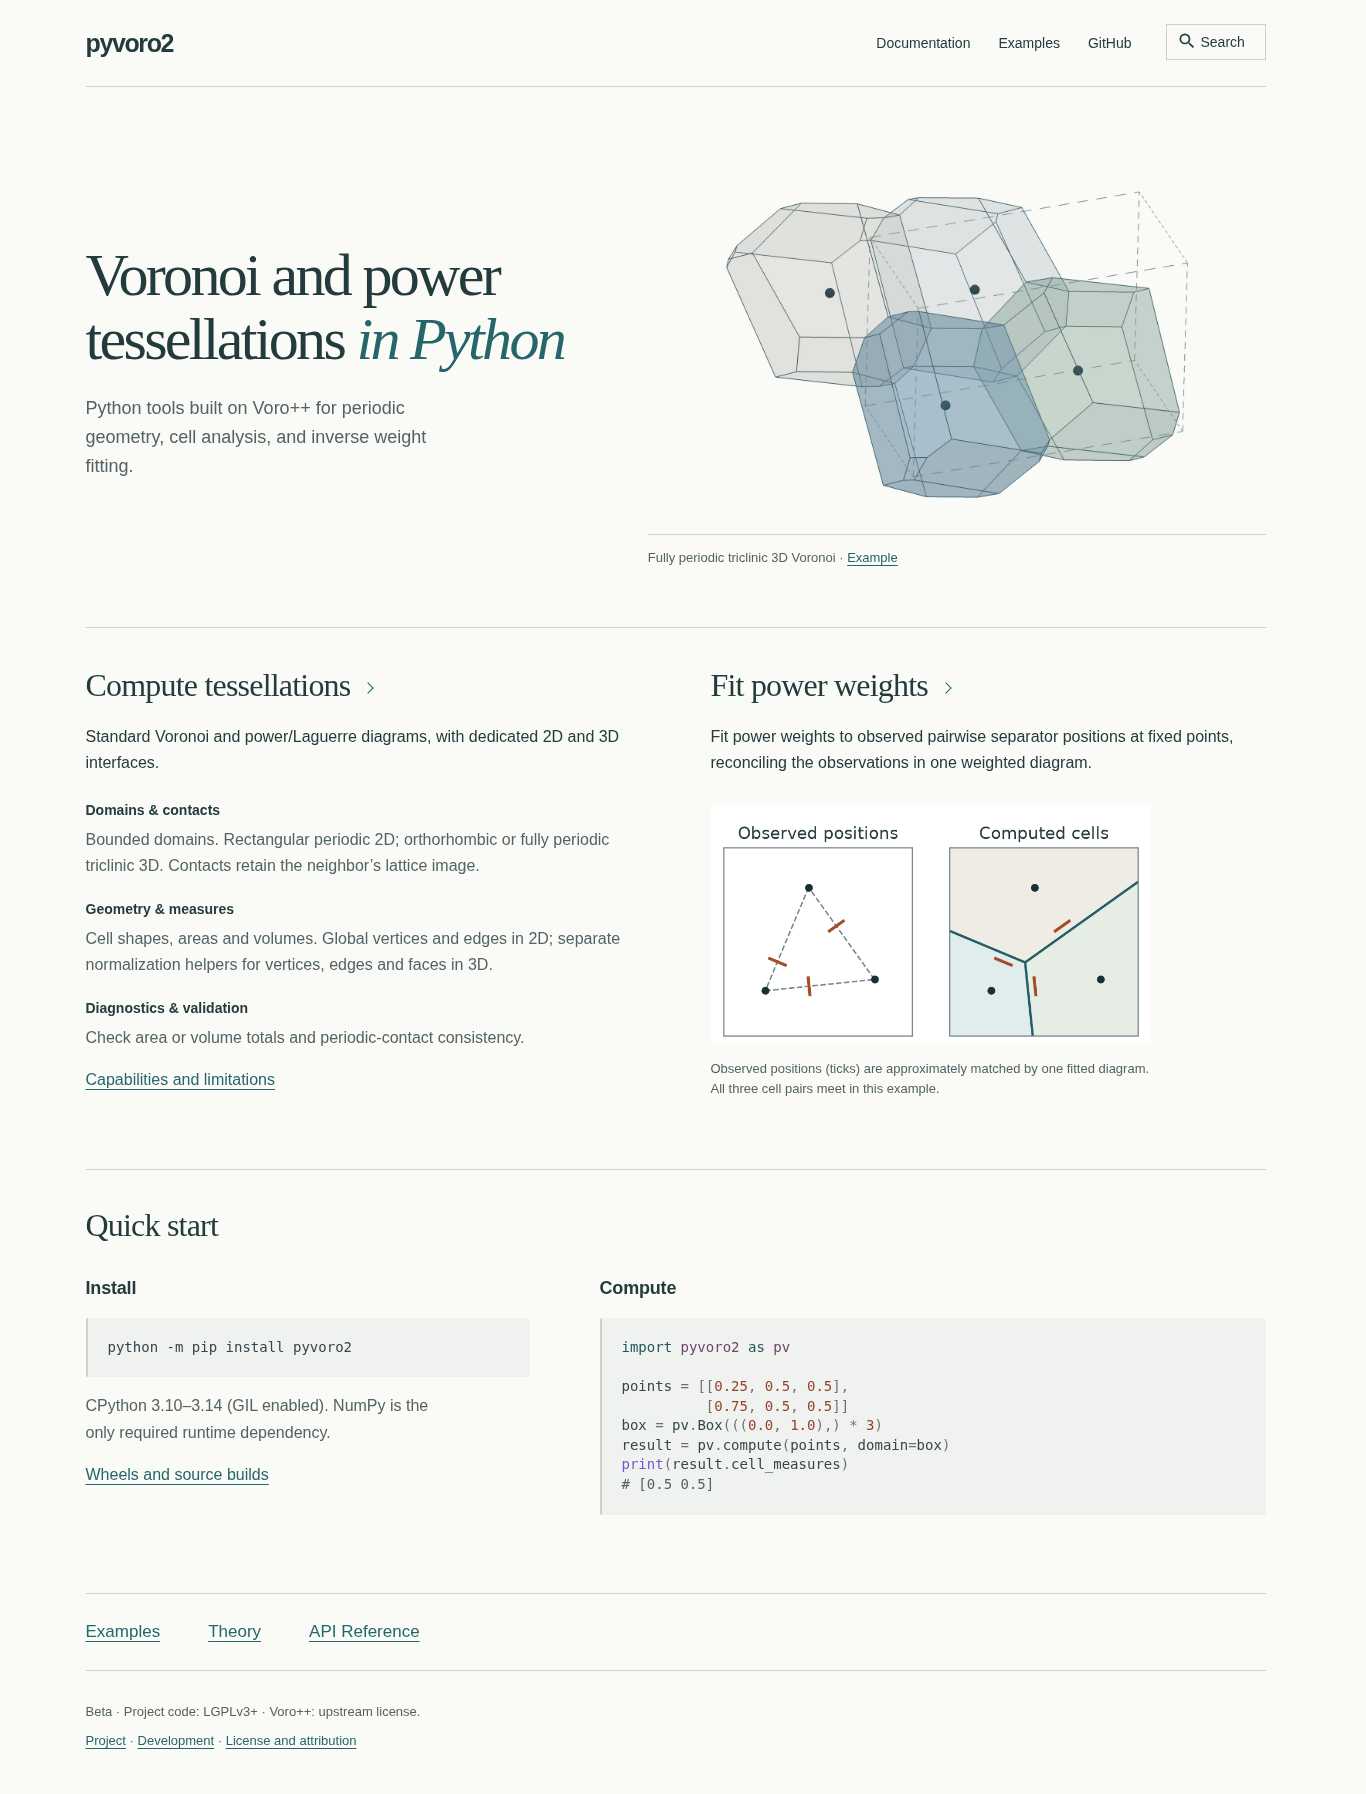
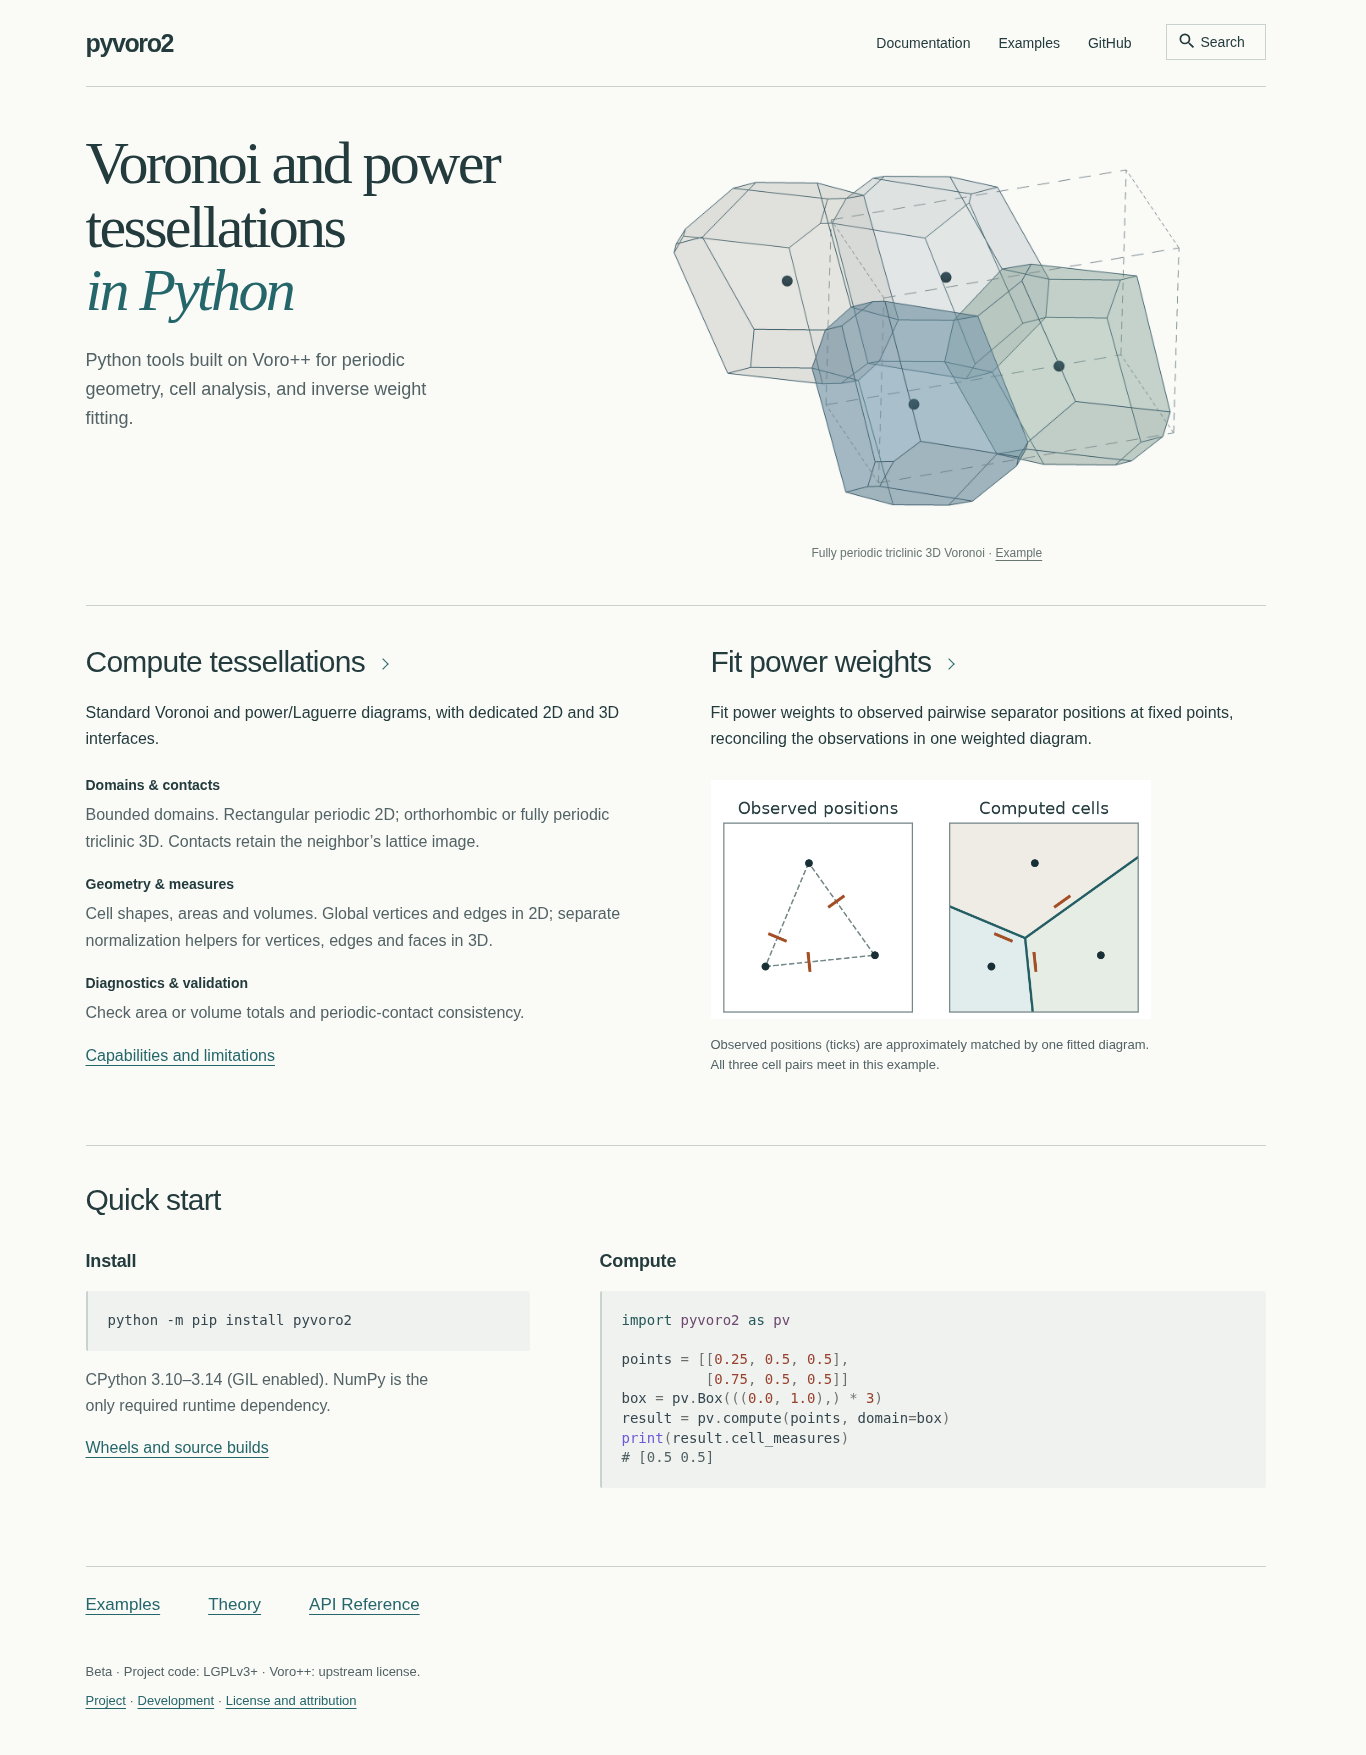
docs: refine both C1 landing directions for review

diff --git a/docs/stylesheets/landing.css b/docs/stylesheets/landing.css
@@ -8,7 +8,9 @@ body:has(.pv-home) {
   --home-accent: #24666a;
   --home-rule: #c9d2ce;
   --home-code: #eff2ee;
-  --home-width: 1180px;
+  --home-caption: #687672;
+  --home-max-width: 1180px;
+  --home-width: min(var(--home-max-width), calc(100% - 80px));
   background: var(--home-paper);
   color: var(--home-ink);
   font-family: Arial, Helvetica, sans-serif;
@@ -86,14 +88,15 @@ body:has(.pv-home) :is(a, button):focus-visible {
 .landing :is(h1, h2, h3) { color: var(--home-ink); }
 .landing h1 { font: 400 clamp(2.2rem, 4.4vw, 3.2rem)/1.06 Georgia, 'Times New Roman', serif; letter-spacing: -.045em; margin: 0; }
 .landing h1 em { color: var(--home-accent); font-weight: 400; display: inline-block; max-width: 100%; }
-.landing h2 { font: 400 1.6rem/1.2 Georgia, 'Times New Roman', serif; letter-spacing: -.025em; margin: 0 0 20px; }
+.landing h2 { font: 500 1.5rem/1.2 Arial, Helvetica, sans-serif; letter-spacing: -.025em; margin: 0 0 20px; }
 .landing h3 { margin: 0 0 16px; font-size: 0.9rem; font-weight: 600; }
-.landing-hero { display: grid; grid-template-columns: .92fr 1.08fr; align-items: center; gap: 36px; padding: 68px 0 58px; }
+.landing-hero { display: grid; grid-template-columns: minmax(0, .82fr) minmax(0, 1.18fr); align-items: start; gap: 32px; padding: 44px 0 42px; }
 .landing-intro p { max-width: 39ch; font-size: 0.9rem; line-height: 1.6; margin: 24px 0 0; color: var(--home-muted); }
 .landing .landing-figure { display: block; width: 100%; margin: 0; }
 .landing-figure img, .landing-cycle img { display: block; width: 100%; height: auto; }
 .landing :is(.landing-figure, .landing-cycle) figcaption { max-width: none; font: 0.65rem/1.55 Arial, Helvetica, sans-serif; color: var(--home-muted); text-align: left; margin: 16px 0 0; }
-.landing .landing-figure figcaption { padding-top: 13px; border-top: 1px solid var(--home-rule); }
+.landing .landing-figure figcaption { text-align: center; font-size: .6rem; color: var(--home-caption); }
+.landing .landing-figure figcaption a { color: inherit; }
 .landing-paths { display: grid; grid-template-columns: 1fr 1fr; gap: 70px; border-top: 1px solid var(--home-rule); padding: 38px 0 54px; }
 .landing-paths section { min-width: 0; }
 .landing-paths h2 a { text-decoration: none; color: inherit; }
@@ -116,34 +119,30 @@ body:has(.pv-home) :is(a, button):focus-visible {
 .landing-start pre { margin: 16px 0; }
 .landing-start pre > code { font-size: 0.7rem; padding: 20px; border-left: 2px solid var(--home-rule); white-space: pre-wrap; overflow-wrap: anywhere; }
 .landing-start .highlight .c1 { color: var(--home-muted); }
-.landing-explore { padding: 24px 0; border-block: 1px solid var(--home-rule); }
+.landing-explore { padding: 24px 0 12px; border-top: 1px solid var(--home-rule); }
 .landing-explore p { display: flex; flex-wrap: wrap; gap: 20px 48px; margin: 0; font-size: 0.85rem; }
 .landing-footer { padding: 22px 0 35px; font-size: 0.65rem; color: var(--home-muted); }
 .landing-footer p { margin: 8px 0; }
 /* B: a broad geometry stage, followed by sequential horizontal workflow rows.
    Same DOM/source order and uncropped images; no decorative geometry. */
-body:has(.pv-home--showcase) { --home-width: 1240px; }
+body:has(.pv-home--showcase) { --home-max-width: 1120px; }
 .pv-home--showcase .pv-home__brand { font-family: Georgia, 'Times New Roman', serif; font-size: 1.5rem; font-weight: 400; }
-body:has(.pv-home--showcase) .landing-hero { grid-template-columns: minmax(0, 1fr); gap: 20px; padding: 42px 0 36px; }
+body:has(.pv-home--showcase) .landing-hero { grid-template-columns: minmax(0, 1fr); gap: 16px; padding: 38px 0 36px; }
 body:has(.pv-home--showcase) .landing h1 { font-family: Arial, Helvetica, sans-serif; font-size: clamp(2.2rem, 4.5vw, 3.3rem); font-weight: 500; letter-spacing: -.065em; line-height: 1.02; }
-body:has(.pv-home--showcase) .landing h1 em { display: inline-block; font-family: Georgia, 'Times New Roman', serif; font-size: .88em; margin-top: 14px; letter-spacing: -.045em; }
-body:has(.pv-home--showcase) .landing-intro { display: grid; grid-template-columns: 1.4fr .6fr; align-items: end; gap: 80px; }
+body:has(.pv-home--showcase) .landing h1 em { display: block; font-family: Georgia, 'Times New Roman', serif; font-size: .88em; margin-top: 8px; letter-spacing: -.045em; }
+body:has(.pv-home--showcase) .landing-intro { display: block; }
 body:has(.pv-home--showcase) .landing .landing-figure { max-width: 960px; margin: 0 auto; }
-body:has(.pv-home--showcase) .landing-intro p { max-width: 32ch; font-size: 0.8rem; }
-body:has(.pv-home--showcase) .landing .landing-figure figcaption { text-align: right; border: 0; padding: 0; }
+body:has(.pv-home--showcase) .landing-intro p { max-width: 64ch; font-size: .9rem; margin-top: 20px; }
+body:has(.pv-home--showcase) .landing .landing-figure figcaption { text-align: right; font-size: .65rem; color: var(--home-muted); }
 body:has(.pv-home--showcase) .landing h2 { font-family: Arial, Helvetica, sans-serif; font-weight: 500; font-size: 1.5rem; letter-spacing: -.04em; }
 body:has(.pv-home--showcase) .landing-paths { display: block; padding: 0; border-top: 2px solid var(--home-ink); }
-body:has(.pv-home--showcase) .landing-paths section { display: grid; grid-template-columns: minmax(0, .8fr) minmax(0, 1.2fr); gap: 0 75px; grid-template-rows: min-content min-content 1fr; padding: 44px 0; border-bottom: 1px solid var(--home-rule); }
+body:has(.pv-home--showcase) .landing-paths section { display: grid; grid-template-columns: minmax(0, .8fr) minmax(0, 1.2fr); gap: 0 56px; grid-template-rows: min-content min-content 1fr; padding: 44px 0; border-bottom: 1px solid var(--home-rule); }
 body:has(.pv-home--showcase) .landing-paths h2 { grid-column: 1; }
 body:has(.pv-home--showcase) .landing-paths section > p { grid-column: 1; align-self: start; max-width: 42ch; }
 body:has(.pv-home--showcase) .landing-facts { grid-column: 2; grid-row: 1 / span 3; margin: 0; }
 body:has(.pv-home--showcase) .landing-facts dt:first-child { margin-top: 0; }
 body:has(.pv-home--showcase) .landing .landing-cycle { grid-column: 2; grid-row: 1 / span 3; width: 100%; max-width: 580px; margin: 0; }
 body:has(.pv-home--showcase) .landing-quickstart { border: 0; padding-top: 44px; }
-@media (max-width: 1320px) {
-  body:has(.pv-home) { --home-width: calc(100% - 80px); }
-  body:has(.pv-home) .md-main__inner { width: var(--home-width); }
-}
 @media (max-width: 760px) {
   body:has(.pv-home) { --home-width: calc(100% - 40px); }
   .pv-home { padding: 20px 0 18px; }
@@ -159,13 +158,13 @@ body:has(.pv-home--showcase) .landing-quickstart { border: 0; padding-top: 44px;
   .landing .landing-figure figcaption { font-size: 0.6rem; }
   .landing-paths, .landing-start { grid-template-columns: minmax(0, 1fr); gap: 38px; }
   .landing-paths { padding: 30px 0 35px; }
-  .landing h2, body:has(.pv-home--showcase) .landing h2 { font-size: 1.35rem; margin-bottom: 16px; }
+  .landing h2, body:has(.pv-home--showcase) .landing h2 { font-size: 1.35rem; letter-spacing: -.04em; margin-bottom: 16px; }
   .landing .landing-cycle { width: 100%; margin-top: 24px; }
   .landing-explore p { gap: 16px 28px; font-size: 0.75rem; }
   .landing-start pre > code { padding: 14px; font-size: 0.6rem; }
   body:has(.pv-home--showcase) .landing-intro { display: block; }
   body:has(.pv-home--showcase) .landing h1 { font-size: clamp(2rem, 10.8vw, 2.9rem); max-width: 16ch; }
-  body:has(.pv-home--showcase) .landing h1 em { display: inline-block; margin: 0; }
+  body:has(.pv-home--showcase) .landing h1 em { display: block; margin-top: 8px; }
   body:has(.pv-home--showcase) .landing .landing-figure { width: calc(100% + 24px); margin-left: -12px; }
   body:has(.pv-home--showcase) .landing .landing-figure figcaption { text-align: left; margin-inline: 12px; }
   body:has(.pv-home--showcase) .landing-paths section { display: block; padding: 30px 0; }

diff --git a/review/w4-c1/README.md b/review/w4-c1/README.md
@@ -6,8 +6,10 @@ is accepted. This draft must remain unmerged until the maintainer chooses a
 direction and requests finalization. C2 themes and C3 animation are deferred.
 
 Base: live `dev` verified as `f5a65347ae3d4ae90fcf891dce4495030ed81f7c`.
-The checkout initially had older refs; the explicit `refs/heads/dev` fetch and
-fast-forward were completed before editing.
+Refinement started from the verified live PR #139 HEAD
+`4160c5bd11e15398b3c2c2ba4d7e977569ee4cb5`, with a clean working tree.
+This round changes only Home CSS and review evidence; the template, Markdown,
+assets, navigation destinations and native search integration are unchanged.
 
 ## Compare the actual builds
 
@@ -25,20 +27,65 @@ The ordinary build temporarily shows A for review; this is not a design decision
 Desktop: **1366 × 768**. Mobile/narrow: **390/320 × 844**. Full-page versions
 include both workflows, the inverse figure, Quick start, navigation and footer.
 
+## Focused refinement round
+
+Before captures are pinned to the last reviewed commit, not overwritten history.
+Compare each hero at the same 1366 × 768 viewport:
+
+| Direction | Before (`4160c5b`) | Refined |
+| --- | --- | --- |
+| A | [Previous hero](https://github.com/DeloneCommons/pyvoro2/blob/4160c5bd11e15398b3c2c2ba4d7e977569ee4cb5/review/w4-c1/screenshots/a-desktop.png) | [Current hero](screenshots/a-desktop.png) |
+| B | [Previous hero](https://github.com/DeloneCommons/pyvoro2/blob/4160c5bd11e15398b3c2c2ba4d7e977569ee4cb5/review/w4-c1/screenshots/b-desktop.png) | [Current hero](screenshots/b-desktop.png) |
+
+**A:** The introduction now aligns with the top of the composition, with 44 px
+between the header rule and the hero box. The image grows from approximately
+618 to 677 px wide at desktop (about 10%), keeping its complete 16:9 plate.
+The headline now occupies three lines, with “in Python” on its own line at this
+width. The caption is centered, smaller and muted, with no rule above it.
+Both workflow entrances still appear in the first desktop viewport.
+
+The [serif functional-heading experiment](refinement/a-serif-full.png) and
+[retained sans-serif treatment](screenshots/a-desktop-full.png) are actual
+Zensical renders with the same refined hero. Serif headings sustain the editorial
+voice throughout, but make the capability titles feel like continuations of the
+introduction. Sans-serif makes Compute, Fit and Quick start clearer practical
+entry points, so this refinement retains sans-serif for those headings and serif
+for the hero. At 320 px, slightly tighter heading spacing keeps the workflow
+arrow with its title; no copy changes were needed.
+
+**B:** The headline, distinct “in Python” line and introductory sentence now
+share one left axis. The large centered plate follows this complete text block.
+The image therefore starts lower than before: the first viewport contains less
+of the plate, an explicit cost of restoring a coherent reading order while
+preserving its scale. The full image remains uncropped in the page.
+
+Compare the [1080 px width experiment](refinement/b-1080-full.png) with the
+[retained 1120 px composition](screenshots/b-desktop-full.png). Both substantially
+reduce the previous 1240 px spread. At 1120 px, the capability prose has slightly
+more breathing room while the columns remain closely related; 1080 does not
+provide a clear enough reading benefit to justify the extra compression. The
+image retains its independent 960 px maximum in both tests. Sequential wide
+capability rows and the larger inverse-fitting figure remain distinctive to B.
+
+Both directions remove the lower Explore divider. Restrained whitespace now
+connects Examples / Theory / API Reference with project and licensing metadata;
+the rule above Explore remains. At 390 and 320 px both preserve source order,
+complete scientific images, accessible search and a compact two-row header.
+A has a shorter opening; B's larger introduction and geometry require more scroll.
+
 ## Design assessment
 
 | Criterion | A — Scientific editorial | B — Geometric showcase |
 | --- | --- | --- |
-| Opening composition | Serif identity beside the scientific plate; balanced text and image. | Broad sans-serif identity above a large, centered scientific plate. |
-| Geometry | Integrated with reading; subtle figure rule and caption. | The geometry dominates; the larger plate makes periodic boundaries and complete cells easier to inspect. |
+| Opening composition | Top-aligned serif identity beside a moderately larger scientific plate. | Left-aligned title, distinct second line and introduction above a large centered plate. |
+| Geometry | Integrated with reading; centered, muted caption with no figure rule. | The geometry dominates; the larger plate makes periodic boundaries and complete cells easier to inspect. |
 | Workflow rhythm | Compute and Fit are equal adjacent entrances, visible at the bottom of the first desktop screen. | Sequential horizontal rows pair each entrance with its detail or figure, giving the inverse figure more space. |
-| Navigation | Compact wordmark and a quiet documentation route; native Search remains visible. | Serif wordmark, a wider header, the same destinations and native Search. |
+| Navigation | Compact wordmark and a quiet documentation route; native Search remains visible. | Serif wordmark, a narrower 1120 px header, the same destinations and native Search. |
 | Mobile | More compact headline and a shorter opening; familiar reading rhythm. | Larger sans-serif headline and slightly wider hero; stronger identity, but more scrolling before workflows. |
 | Cost | The hero has less visual impact than B; some readers may still see an editorial documentation page. | The first desktop screen does not expose the workflow entrances. The long hero and sequential rows delay Quick start. |
 
 **Recommendation: develop A further.** It gives the geometry a clear identity
-while making the two scientific workflows immediately discoverable. Its type
-and rules fit the project's calm, precise tone. B is a credible alternative if
+while making the two scientific workflows immediately discoverable. Its serif introduction and neutral functional headings fit the project's calm, precise tone. B is a credible alternative if
 inspectable geometry should be the dominant first impression; its larger stage
 would accommodate a future interactive hero particularly well. A could also
 accommodate one inside its existing figure area. No viewer infrastructure has
@@ -83,10 +130,14 @@ were not tested. The cloud could not fetch Google Fonts; Home deliberately uses
 system Arial/Georgia, and documentation comparisons used identical font
 availability on baseline and candidates.
 
-Home surface, text, accent, rule and code colors use scoped tokens. C2 can map
+Home surface, text, caption, accent, rule and code colors use scoped tokens. C2 can map
 these tokens to the native theme without changing content or layout. The current
 light PNG presentation remains intentional; neither a theme toggle nor a dark
-hero has been implemented.
+hero has been implemented. A benefits from retaining a quiet, continuous surface.
+B's narrower container leaves useful side gutters for a possible restrained
+scientific treatment in C2, after the composition is selected; no patterns have
+been added. Both figure areas could accommodate later C3 work without changing
+the approved reading order; no interactive infrastructure is included.
 
 ## Reproduce
 
@@ -147,16 +198,17 @@ Local commands executed:
 - `node review/w4-c1/verify.cjs ...` — browser checks and captures.
 - A Python standard-library HTML parser scanned all 93 HTML pages in each build
   for internal link, asset and fragment resolution. No missing targets.
-- Source comparison confirms `docs/index.md` differs only by `template:` and
+- Source comparison confirms `docs/index.md` is byte-identical to reviewed
+  `4160c5b` (and differs from the original `dev` only by `template:`), and
   both scientific PNGs retain their baseline SHA-256 hashes. Non-Home HTML is
   identical to the baseline after removing the added stylesheet link.
 
-The initial editable install failed because inherited `CXX=clang++` pointed to
-an unavailable compiler. Repeating with `CC=gcc CXX=g++` succeeded. Early checks
-caught Home syntax-color contrast and a B mobile margin-specificity issue; both
-were corrected before final captures. The browser test was corrected to follow the native drawer's section hierarchy
-and wait beyond the theme's existing 125 ms delayed close on navigation;
-clicking sooner races that native behavior. No site workaround was added.
+The first refinement browser run passed both Home variants but could not finish
+the documentation pixel comparison because the older local baseline server no
+longer responded. It was restarted and the full suite rerun. A focused code
+review found no severity findings. These are local results, separate from CI.
+The review script retains its wait for the theme's existing 125 ms delayed drawer
+close; no site JavaScript or workaround was introduced.
 
 No package code, API, README, notebook sources, navigation inventory,
 Markdown extensions, MathJax integration, dependencies, or deployment workflows
